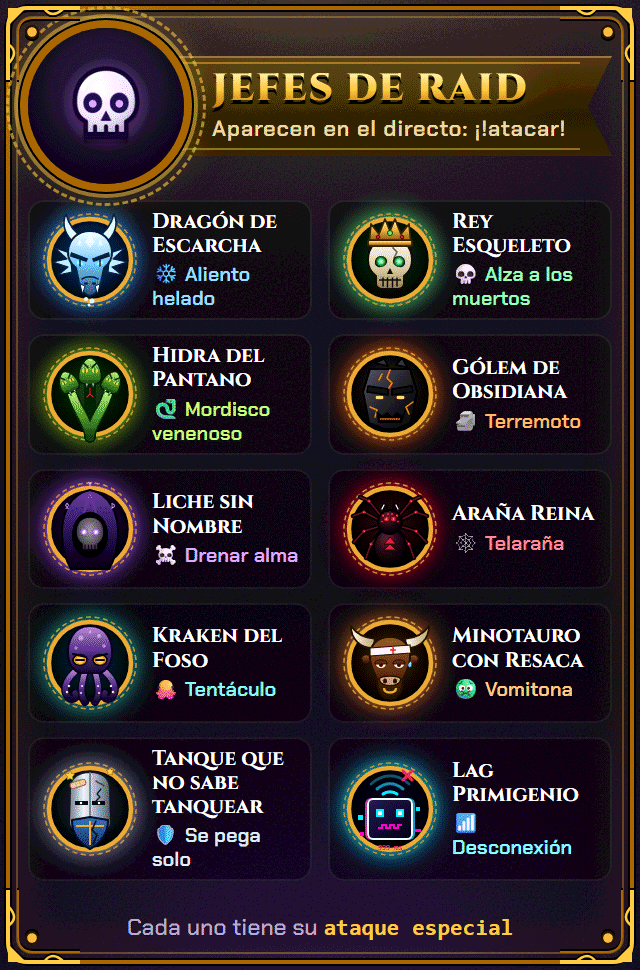
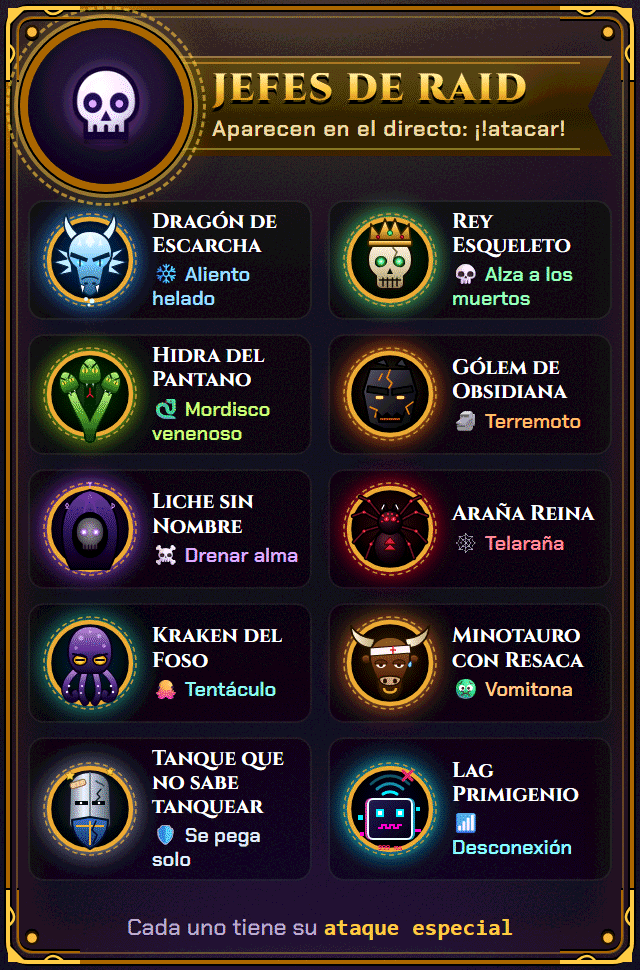
Panel Loot de Twitch: subs, bits, raids y temporada

diff --git a/docs/paneles/paneles.html b/docs/paneles/paneles.html
@@ -201,8 +201,8 @@
     <div class="precio"><img src="../../biblioteca/imagenes/twitch/oro-moneda-56.png" alt="">5.000</div></div>
 </section>
 
-<!-- 3. LOOT · alto 445 -->
-<section class="panel" id="loot" style="--alto: 445px">
+<!-- 3. LOOT · alto 680 -->
+<section class="panel" id="loot" style="--alto: 680px">
   <div class="cab">
     <div class="cinta"><h2>Loot del chat</h2><small>Botín por estar en el directo</small></div>
     <div class="medallon"><img src="../../biblioteca/imagenes/twitch/cofre-112.png" alt=""></div>
@@ -217,7 +217,13 @@
   <div class="seccion"><span>Y además</span></div>
   <div class="extra"><span class="ico">🔥</span><span><b>3 directos seguidos</b>: cofre de fidelidad en cada directo.</span></div>
   <div class="extra"><span class="ico">🐉</span><span><b>Jefes de raid</b>: todos a !atacar. Botín para quien pegue; el mejor, Cofre del tesoro.</span></div>
-  <div class="extra"><span class="ico">⚔</span><span><b>Duelos, forja y títulos</b>: sube tu poder y completa una rareza.</span></div>
+  <div class="extra"><span class="ico">🏆</span><span><b>Temporada del mes</b>: el podio gana premio y título. Cada lunes, un evento nuevo.</span></div>
+  <div class="extra"><span class="ico">⚔</span><span><b>Duelos, forja y colecciones</b>: sube tu poder y gana títulos.</span></div>
+  <div class="seccion"><span>Subs, bits y raids</span></div>
+  <div class="extra"><span class="ico">💜</span><span><b>Sub o resub</b>: cofre de suscriptor (legendario cada 12 meses), mochila de 30 y colección exclusiva.</span></div>
+  <div class="extra"><span class="ico">🎁</span><span><b>Regalar subs</b>: cofre para quien la recibe y Cofre del tesoro para ti. Con 5 o más, ¡lluvia de cofres para todo el chat!</span></div>
+  <div class="extra"><span class="ico">💎</span><span><b>Bits</b>: cada 100, un golpe al jefe. Sin jefe, desde 300 cae un cofre.</span></div>
+  <div class="extra"><span class="ico">🛡</span><span><b>Raid</b>: cofre para quien la trae. Con 3 o más, aparece un jefe.</span></div>
   <div class="pie">Todos los comandos: <code>!loot</code></div>
 </section>
 

diff --git a/docs/paneles/README.md b/docs/paneles/README.md
@@ -20,11 +20,11 @@ Si cambia un comando o un precio, se cambia en `paneles.html` y se regeneran. De
 
 ```bash
 EDGE="/c/Program Files (x86)/Microsoft/Edge/Application/msedge.exe"
-"$EDGE" --headless=new --disable-gpu --hide-scrollbars --window-size=320,2090 \
+"$EDGE" --headless=new --disable-gpu --hide-scrollbars --window-size=320,2325 \
   --force-device-scale-factor=2 --screenshot="$(cygpath -w $PWD)\\hoja-paneles.png" \
   "file:///$(cygpath -m $PWD)/docs/paneles/paneles.html"
 y=0
-for p in comandos:640 recompensas:520 loot:445 jefes:485; do
+for p in comandos:640 recompensas:520 loot:680 jefes:485; do
   n=${p%%:*}; h=${p##*:}
   magick hoja-paneles.png -crop 640x$((h*2))+0+$((y*2)) +repage -strip \
     "biblioteca/imagenes/twitch/paneles/$n.png"
@@ -38,6 +38,6 @@ for n in comandos recompensas loot jefes; do
 done
 ```
 
-Las alturas (`640`, `520`, `445`, `485`) son las `--alto` de cada panel en `paneles.html`, en el mismo orden, y `--window-size` es su suma. Si cambias una, cambia las tres cosas. A veces Edge tarda un segundo en escribir la captura: si `magick` dice que no encuentra `hoja-paneles.png`, vuelve a lanzarlo.
+Las alturas (`640`, `520`, `680`, `485`) son las `--alto` de cada panel en `paneles.html`, en el mismo orden, y `--window-size` es su suma. Si cambias una, cambia las tres cosas. A veces Edge tarda un segundo en escribir la captura: si `magick` dice que no encuentra `hoja-paneles.png`, vuelve a lanzarlo.
 
 Los retratos del panel de jefes son los del overlay (`biblioteca/overlays/jefe.html`, `TEMAS`), con los identificadores de sus degradados cambiados por jefe (`r-ojo` → `arana-ojo`) para que no se pisen en la misma página. Si cambias un retrato allí, cópialo aquí igual.
